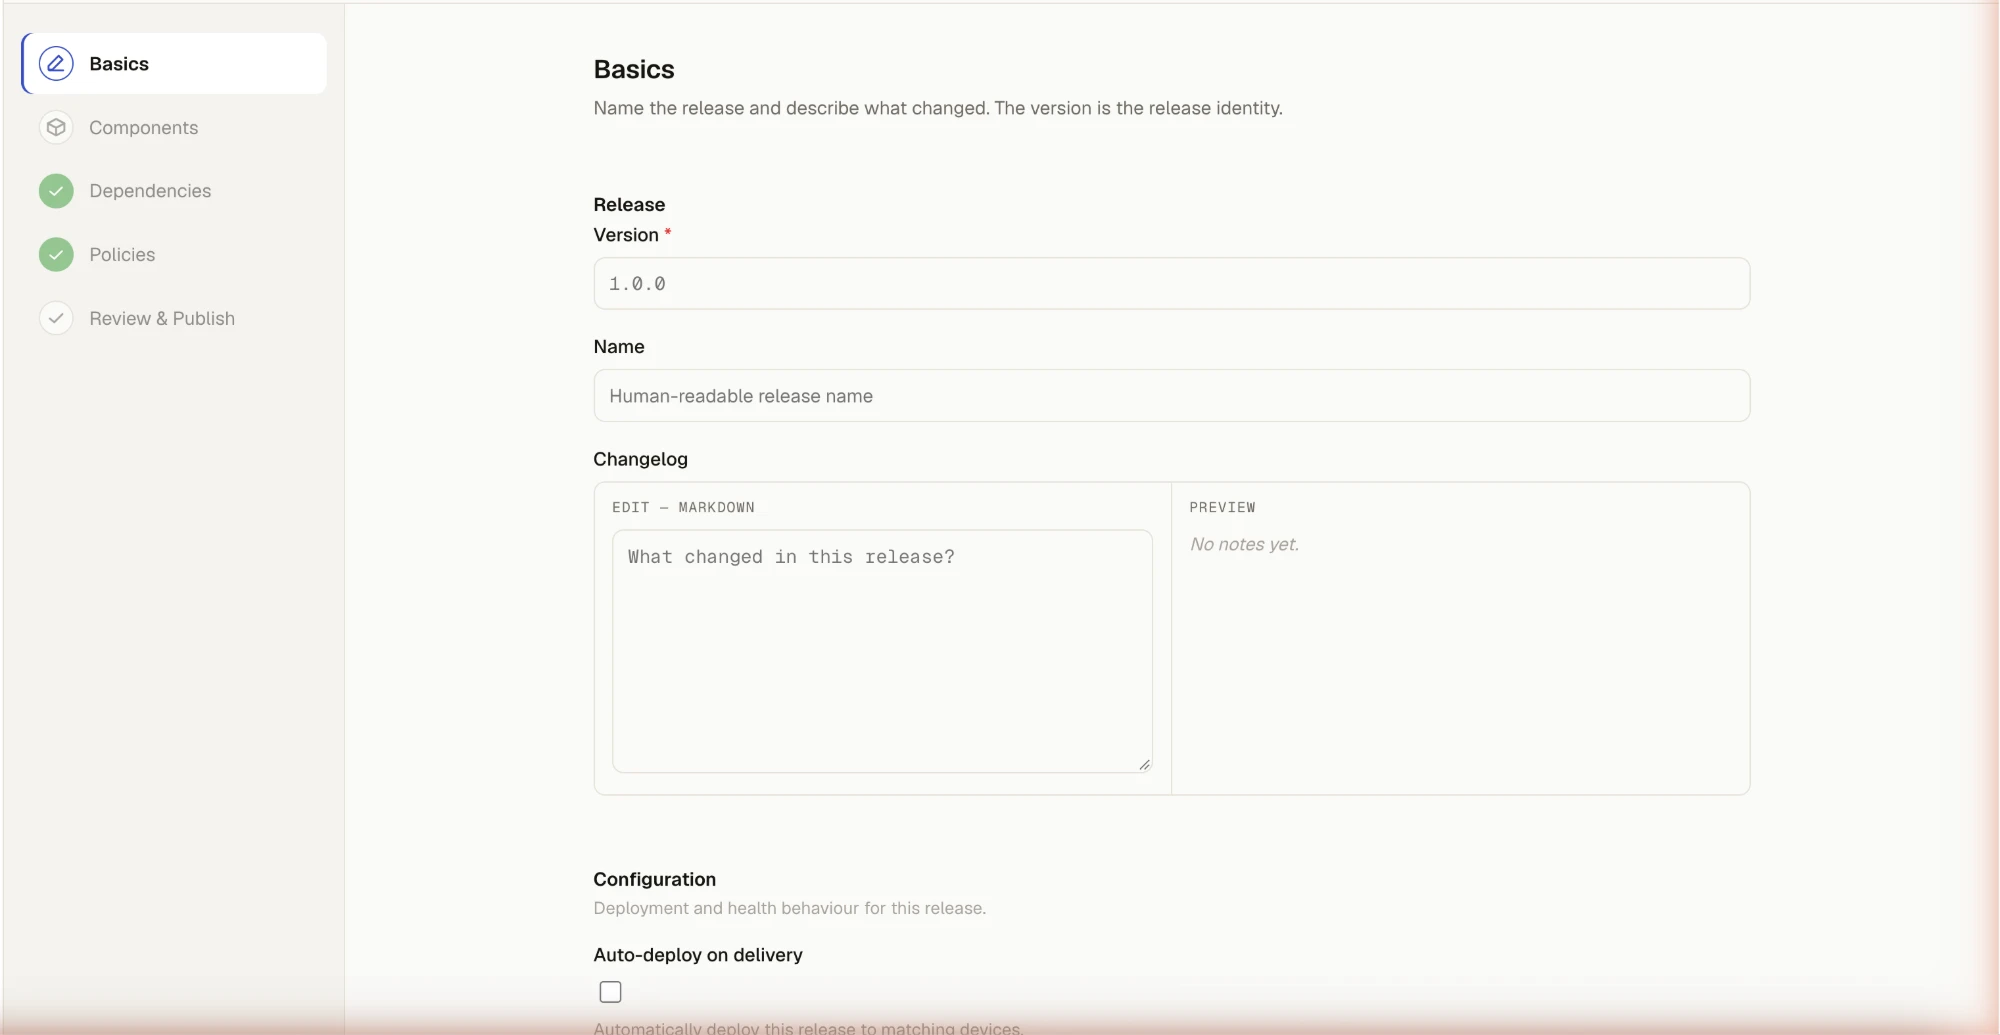
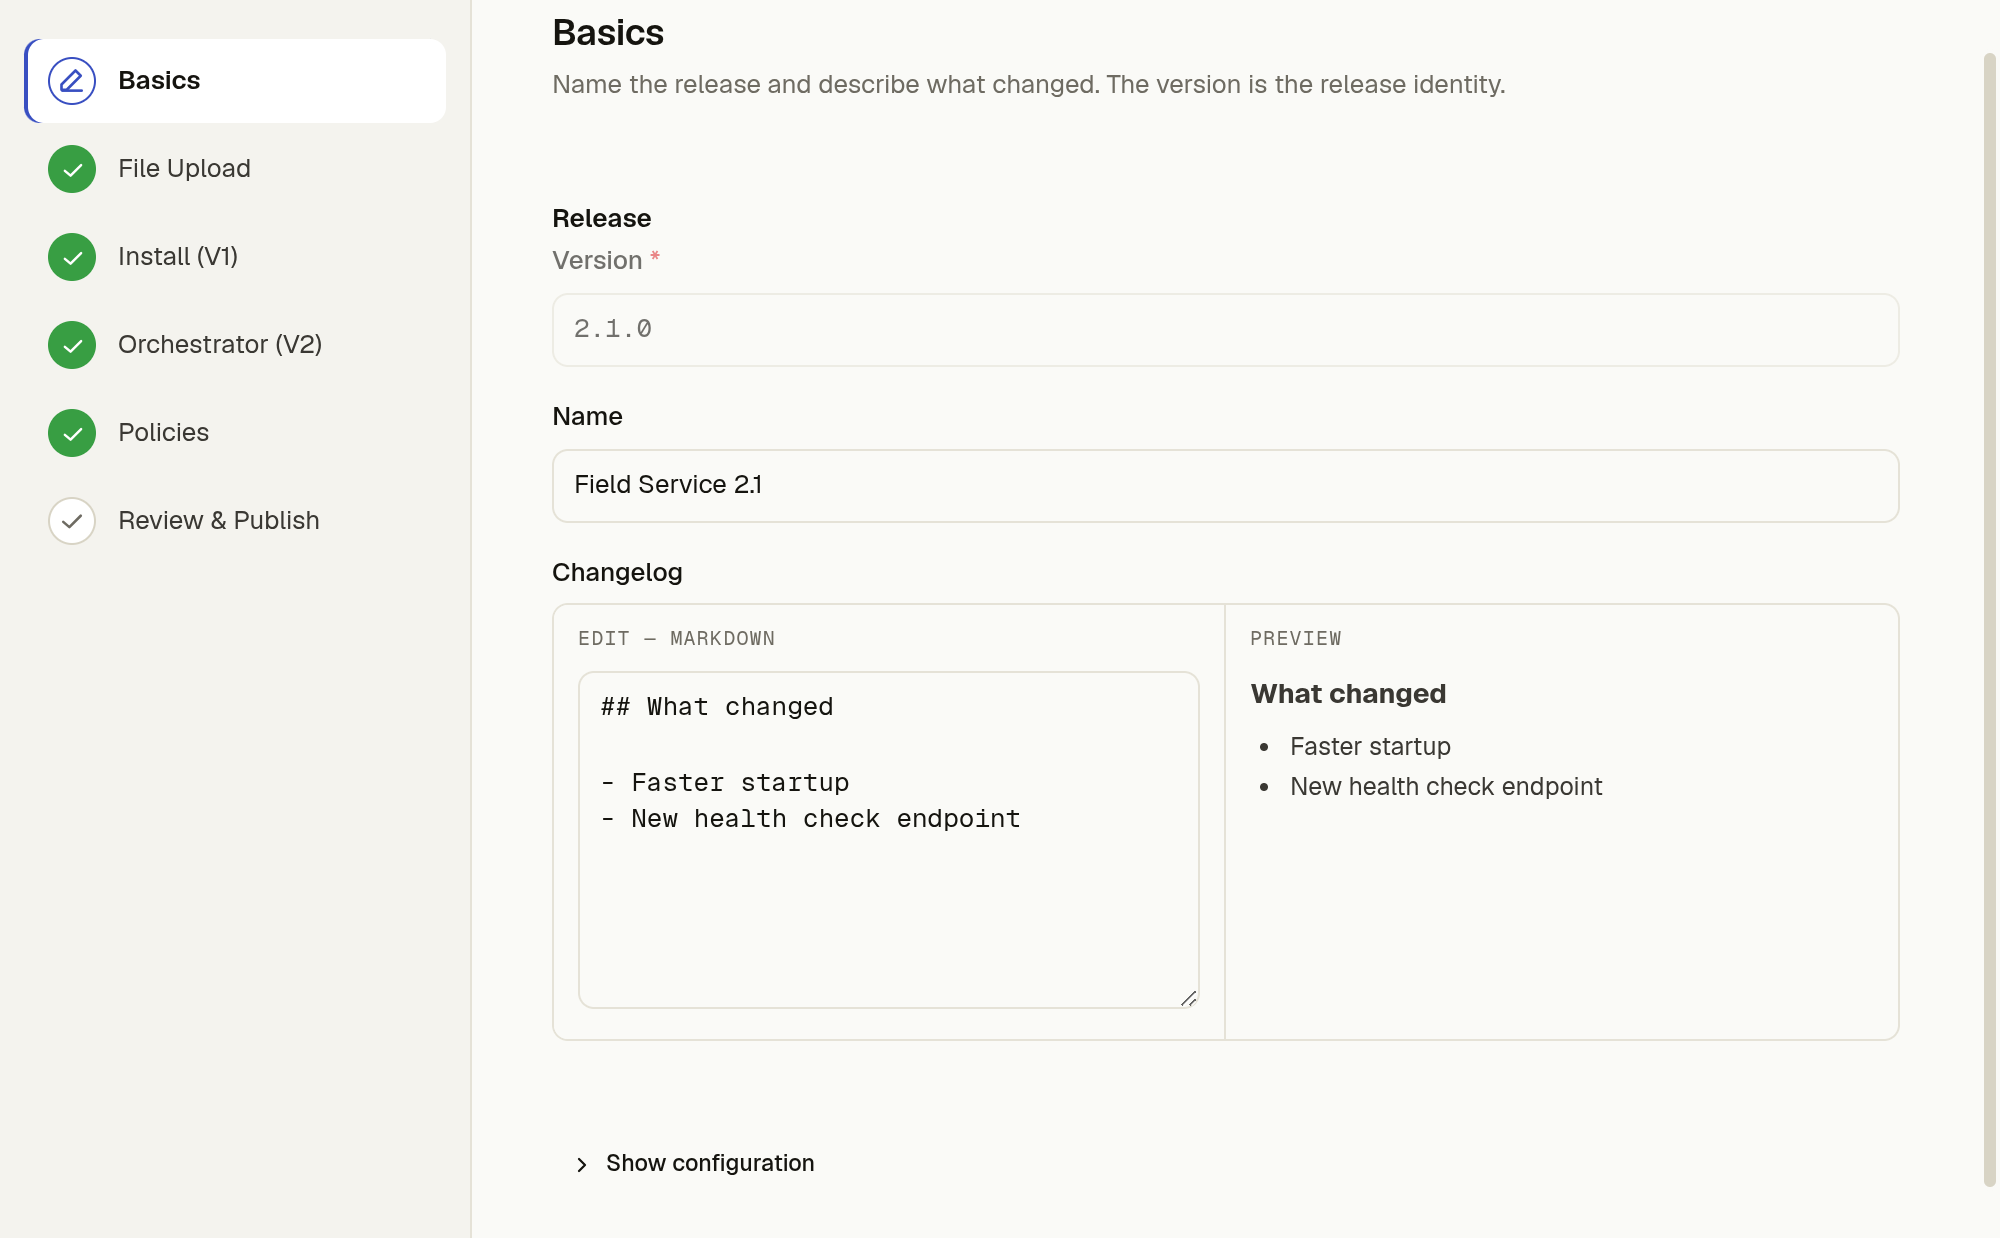
add new images

diff --git a/docs/root/user-docs/developer/release/create-release.md b/docs/root/user-docs/developer/release/create-release.md
@@ -24,58 +24,192 @@ Every existing release has a **Duplicate** button. It opens this same wizard, pr
 that release's artifacts and settings — nothing is written until you give it a new version
 number in Step 1. It's the fastest way to publish a near-identical follow-up release.
 
+## The steps
+
+| Step | Required? | What it's for |
+|---|---|---|
+| **Basics** | Yes | Version, name, release notes, configuration. Creates the draft |
+| **File Upload** | — | The artifacts the release delivers |
+| **Install (V1)** | Optional | The one file a [Deploy V1](../deploy/v1/deploy-v1-overview) agent runs |
+| **Orchestrator (V2)** | Optional | The [Deploy V2](../deploy/v2/deploy-v2-overview) plan, written to `install.yaml` |
+| **Policies** | Optional | Who the release is offered to |
+| **Review & Publish** | — | Check everything, then publish |
+
+A release has **both** install paths: the V1 installer for agents without Deploy V2, and the
+Orchestrator plan for agents with it. Fill in either one or both — publishing doesn't require
+either. Your deployment can hide a step, rename it, or make it required — see
+[Customizing the wizard](#customizing-the-wizard).
+
+**Next** and **Back** skip any step you don't have the role for. Your work is saved each time you
+press **Next**, when you press **Save draft**, and when you leave the wizard, so you can come back
+to a draft later and pick up where you stopped.
+
 ## Step 1 — Basics
 
 Version and name. The draft release is created here before anything else can attach to it.
+The version must be `MAJOR.MINOR.PATCH` (for example `1.2.3`) and can't already exist in the
+project — if a draft with that version exists, the wizard offers to resume it instead.
+Release settings such as auto-deploy are under **Show configuration**.
 
-![Release wizard — Basics step, with Version, Name, Changelog editor, and Auto-deploy on delivery configuration](/img/manual/release/wizard-basics.png)
+![Release wizard — Basics step, with Version 2.1.0, Name, a Markdown changelog with its preview, and Show configuration below](/img/manual/release/wizard-basics.png)
 
-## Step 2 — Components
+## Step 2 — File Upload
 
-Upload artifact files directly, or [attach one from an existing source](./attach-artifact)
-instead. Flag exactly one artifact as **install** — assigning it to a new artifact
-automatically un-flags the previous one. Publish is blocked while any install-bound artifact
-is still uploading.
+Upload the files this release carries — click **Upload file** or drag files onto the page — or
+[attach one from an existing source](./attach-artifact) instead. Every artifact here is
+delivered to the device; which one *installs* is set in the next two steps.
 
-![Release wizard — Components step, empty state with Upload file and Attach from source actions](/img/manual/release/wizard-components.png)
+`install.yaml` can't be uploaded here: the wizard generates it from the
+[Orchestrator](#step-4--orchestrator-v2) plan.
 
-## Step 3 — Dependencies
+![Release wizard — File Upload step, listing an .msi, a .sh and a README as uploaded, with Upload file, Attach from source and a drop area](/img/manual/release/wizard-file-upload.png)
 
-Add other releases (any project, any version) this one depends on — an unordered list in the
-current release stage. In a Deploy V2 release, dependencies are added and listed in the wizard's
-**Orchestrator** step.
+## Step 3 — Install (V1)
 
-Before a dependency is added, the server checks it. It is refused, with the reason shown under
-the picker, when it would:
+For agents that run [Deploy V1](../deploy/v1/deploy-v1-installation): pick the **Installer file**
+and, optionally, the **Install arguments** (for example `/quiet /norestart`). The wizard shows
+how the agent will run the file you picked:
+
+| File | Runs as |
+|---|---|
+| `.msi` | MSI installer |
+| `.rpm` | RPM package |
+| `.sh` | Script (bash) |
+| `.ps1` | Script (PowerShell) |
+| `.bat` | Script (cmd) |
+| anything else | Executable (run directly) |
+
+The extension match is case-sensitive, like the agent's: `Setup.MSI` runs directly, not
+through the MSI installer. If you don't pick a file, the agent falls back to the first `.msi`
+or `.rpm` in the release; if there's none, nothing runs on a V1 install.
+
+Publish is blocked while the chosen installer is still uploading.
+
+![Release wizard — Install (V1) step, with field-service-2.1.0.msi chosen as the installer file, "Installs as MSI installer", and install arguments /quiet /norestart](/img/manual/release/wizard-install-v1.png)
+
+## Step 4 — Orchestrator (V2)
+
+Build the [Deploy V2](../deploy/v2/deploy-v2-overview) plan. The wizard turns it into the
+release's `install.yaml` every time it saves. **Leave the plan empty and the release ships
+without `install.yaml`** — it then installs with V1 only.
+
+### Starting point
+
+When you first open the step, the wizard builds a plan from the files you uploaded:
+
+- every installer (`.msi`, `.rpm`, `.deb`, `.sh`, `.ps1`, `.bat`) gets an **Install** task
+- every package (`.msi`, `.rpm`, `.deb`) also gets an **Uninstall** task
+
+If none of the uploaded files is an installer, the plan starts empty. If you empty the plan
+yourself, it stays empty the next time you open the draft.
+
+![Release wizard — Orchestrator (V2) step, with the Tasks list on the left and the Install section holding a FirstApp 2.4.0 dependency task (Fleet rule) and the two uploaded installers](/img/manual/release/wizard-orchestrator.png)
+
+### Tasks
+
+The **Tasks** list on the left holds every task you've written. **Add task** opens the task
+editor; pick one or more **Actions**, and the wizard places a copy of the task in each of those
+action's sections. The task stays in the list, so you can drag it into another section for
+another copy.
+
+- Editing a task **in the list** updates every copy placed from it
+- Editing a **placed copy** changes only that copy — it stops following the list
+- Deleting a task from the list doesn't remove the copies already placed
+
+On a placed task you can add **Subtasks** (for example a check that runs after it), set a
+**Weight** (its share of the progress bar), and set a **Rule** (the devices it runs on).
+
+### Actions
+
+Each section of the plan is an [action](../deploy/v2/deploy-v2-lifecycle-actions) — the
+sections in `install.yaml`. By default you see **Install**, **Uninstall**, **Health**,
+**Configure**, **Activate**, and **Deactivate**.
+
+- **Add action** shows a hidden action again, or adds a **Custom action…** with your own name.
+  A custom action runs only when called by name — from the agent, or from another release's task
+- The arrows move a section up or down; `install.yaml` follows the section order
+- An empty section can be removed; a section with tasks can't, until you move or remove them
+- **Re-run each time** controls whether the action starts fresh every time it runs. It's off
+  by default for Install and Uninstall (they run once, and a failed run resumes where it
+  stopped) and on for every other action
+
+A plan with any tasks needs at least one task in **Install**. Until it has one, **Next** is
+blocked and you can't jump past this step in the rail.
+
+### Dependencies
+
+Under **Add dependency…**, search for a project — you can type any part of its name — then
+pick a version. Only versions that have a Deploy V2 plan are offered. Before adding it, the
+server checks it. It is refused, with the reason shown under the picker, when it would:
 
 - create a **dependency cycle** — for example this release → B → this release. The cycle is shown
   as a chain of release chips, each linking to that release
 - point to **this release itself**, or to a release that doesn't exist
 
-Removing a dependency also removes every task that deploys it, and is saved when you move to the
-next step. It doesn't affect the dependency's own release.
+Adding a dependency adds one task per action the dependency has. Its **Install** task goes to
+the top of your Install section; the others go to the end of their sections. Each one is a
+[`FleetDeploy/v2`](../deploy/v2/deploy-v2-orchestrator#fleet-deploy-across-managed-devices) task
+with a **Fleet rule**, pre-filled from the dependency's own rule and the device types it is
+offered to. A dependency task without a fleet rule blocks publishing.
 
-![Release wizard — Dependencies step, with GetApp-Upload@1.4.65-main added and a project/version picker to add more](/img/manual/release/wizard-dependencies.png)
+The **Dependencies** list shows what's added. Removing a dependency also removes every task
+that deploys it, and is saved when you move to the next step. It doesn't affect the
+dependency's own release.
 
-## Step 4 — Policies
+![Release wizard — Orchestrator (V2) step scrolled down: the Tasks list scrolled to the Dependencies list with FirstApp 2.4.0, the Uninstall section with the .msi and the dependency's uninstall task, and the Health section with an API health check and Re-run each time on](/img/manual/release/wizard-orchestrator-actions.png)
+
+### install.yaml
+
+**Show YAML** opens the generated `install.yaml` beside the plan. The **⋯** menu can
+**Download YAML**, **Edit YAML** (edit the text directly, then **Apply**), or **Upload YAML**
+(replace the plan with a file — you review it before applying). You can also drop an
+`install.yaml` file onto the step. A task that carries fields the task editor doesn't show is
+marked **Edited in YAML** — edit it with **Edit YAML** so those fields are kept.
+
+Problems in the plan are listed under it, and block publishing until fixed. When there are
+none, you see **Manifest is valid.**
+
+If a draft already has an `install.yaml` that can't be read, the step says so and publishing is
+blocked. **Retry** reads it again; **Replace it** overwrites it with the plan you write here.
+
+## Step 5 — Policies
 
 Two independent, role-gated ways to narrow who this release reaches — leaving both unset
 delivers it to everyone:
 
 - **Device type offering** — the same [offering policy](../../admin/create-and-manage-type/manage-device-type)
-  editor used from Types, scoped to this release
+  editor used from Types, scoped to this release. Type in the device type picker to filter it
 - **Release policy** — associates a [Policy](../../admin/create-and-manage-rule/policy) rule
   with this specific release
 
 Active [restrictions](../../admin/create-and-manage-rule/restrictions) are shown here
 read-only — they still block matching devices regardless of what you set in this step.
 
-![Release wizard — Policies step, with an unset Device type filter and the General policy attached to "Allow All Devices"](/img/manual/release/wizard-policies.png)
+If you have none of the offering or policy roles, **Next** skips this step and the release is
+offered to everyone.
 
-## Step 5 — Review & Publish
+![Release wizard — Policies step, with no device type narrowed, an Add a device type picker, and the General policy "Allow All Devices" attached](/img/manual/release/wizard-policies.png)
+
+## Step 6 — Review & Publish
 
 A read-only summary of every step, each with a quick **Edit** link back to it. **Publish**
 (gated on `publish-release`) flips the release's status to `released`.
+
+| Row | Shows |
+|---|---|
+| **Basics** | Version and name |
+| **File Upload** | Number of artifacts |
+| **Install (V1)** | The installer and how it runs — or the file the agent falls back to |
+| **Policies** | *Narrowed*, or *Delivers to everyone* |
+| **Orchestrator (V2)** | The plan's tasks, with a preview and **Download** of `install.yaml` — or *No Deploy-V2 plan — installs with V1 only* |
+
+![Release wizard — Review & Publish step, with Basics, File Upload, Install (V1), Policies and Orchestrator (V2) rows, each with an Edit link](/img/manual/release/wizard-review.png)
+
+Publishing is blocked while:
+
+- the Orchestrator plan has problems (they're listed here too)
+- the V1 installer is still uploading
+- a step your deployment made required isn't complete
 
 This step also shows the server's **publish checks** for the saved draft. Publishing is refused
 while any of them fails:
@@ -93,7 +227,37 @@ An artifact used by `install.yaml` that isn't signed shows as a warning only.
 The same checks run when a release in review is promoted to `released` automatically (for
 example once its regulations are compliant) — if they fail, it stays in review.
 
-![Release wizard — Review & Publish step, summarizing Basics, Components, Dependencies, and Policies each with an Edit link](/img/manual/release/wizard-review.png)
+## Customizing the wizard
+
+An administrator can tailor the wizard per deployment, without changing the application. Out of
+the box you get the wizard described above. There are two optional files in
+`public/config/` of the GetApp Platform deployment.
+
+**`release-wizard.steps.json`** changes the steps, matched by key (`basics`, `file-upload`,
+`install-v1`, `orchestrator`, `policies`, `review`). Each entry can set `title`, `order`,
+`hidden`, `requiredRoles`, and `required`. A required step blocks **Next**, the steps after it,
+and **Publish** until it's complete. For example, to hide the V1 installer step where every
+agent runs Deploy V2, and to require at least one uploaded file:
+
+```json
+{
+  "version": 1,
+  "steps": [
+    { "key": "install-v1", "hidden": true },
+    { "key": "file-upload", "required": true }
+  ]
+}
+```
+
+**`release-wizard.deploy-v2.json`** changes the Orchestrator:
+
+| Key | What it does |
+|---|---|
+| `orchestratorRequired` | `true` makes the Deploy V2 plan mandatory: **Next** on the Orchestrator and **Publish** stay blocked until the plan has an Install task. Default `false` |
+| `actions` | The actions offered, in order. Each has a `value` (the `install.yaml` key, built-in or custom), a `label`, and optionally `default` (`false` = only under **Add action**), `live`, and `tip` (a hint in the task editor) |
+| `sources` | The task sources offered (File, API, …) |
+
+A missing or invalid file falls back to the defaults, so the wizard always opens.
 
 ## SBOM
 

diff --git a/docs/root/user-docs/developer/release/overview.md b/docs/root/user-docs/developer/release/overview.md
@@ -16,9 +16,10 @@ page in this section.
 ## Artifact
 
 One or more files attached to the release — an installer, a binary, a docker image, an rpm/deb
-package, a data file. Exactly one can be flagged as the **install** artifact: the thing that
-actually runs. See [Attach an Artifact](./attach-artifact) for pulling one in from an existing
-source instead of uploading fresh bytes.
+package, a data file. For [Deploy V1](../deploy/v1/deploy-v1-overview) agents, one of them is
+chosen as the **installer**: the thing that actually runs. See
+[Attach an Artifact](./attach-artifact) for pulling one in from an existing source instead of
+uploading fresh bytes.
 
 ## Manifest
 
@@ -32,10 +33,10 @@ an ordered list of **tasks**. Each task carries:
 - Fields that can reference the release's own **data and metadata** at run time instead of a
   fixed value (e.g. a timeout sourced from `Release.metadata.timeoutInstallation`)
 
-`install.yaml` is a reserved name — the wizard blocks uploading a file with it directly. The
-concepts above (tasks, actions, orchestrated dependents, metadata templating) are real and
-already how Deploy V2 works; the manifest is composed server-side, not hand-edited through the
-dashboard today.
+`install.yaml` is a reserved name — the wizard blocks uploading a file with it directly. You
+build the plan in the wizard's [Orchestrator (V2)](./create-release#step-4--orchestrator-v2)
+step, and the wizard writes `install.yaml` from it (you can also edit the YAML there). A release
+with an empty plan has no `install.yaml` and installs with Deploy V1 only.
 
 ## Lifecycle
 

diff --git a/docs/root/user-docs/developer/project/new-project.md b/docs/root/user-docs/developer/project/new-project.md
@@ -24,7 +24,9 @@ New Project is a wizard with a step rail down the left. Only **General** is requ
 them entirely. Every step has **Next**; on the last step (**GitOps**) it becomes
 **Create Project**. Click a step in the rail to jump straight to it, so you can go from General
 to the last step and create the project without visiting the optional ones. You can revisit
-everything later from the project's [Settings](./project-detail#settings).
+everything later from the project's [Settings](./project-detail#settings). A step you don't have
+the role for (for example **Members**, which needs `update-project`) is greyed out, and **Next**
+and **Back** skip it.
 
 ![New Project wizard — a left step rail with General (required) plus Members, Docs, and GitOps (optional), showing the General step: a Project name field with the auto-assigned Project ID line below it, Software Type chips Application (selected) and Infrastructure, a Categories picker, Summary (0/20), Tags, and Description (0/500), with Cancel, Back, and Next in the footer](/img/manual/project/new-project-form.png)
 

diff --git a/docs/root/user-docs/developer/release/attach-artifact.md b/docs/root/user-docs/developer/release/attach-artifact.md
@@ -14,7 +14,7 @@ bytes.
 
 ## Where it lives
 
-[Create a Release](./create-release) → Components step → **Attach from source**.
+[Create a Release](./create-release) → File Upload step → **Attach from source**.
 
 ## Choose a source
 
@@ -42,9 +42,10 @@ all to the release.
 
 ![Attach from source — Review step, showing the one selected file ready to Attach](/img/manual/release/attach-review.png)
 
-:::note Not install-bound by default
-Attached artifacts arrive without the install flag — go back to the Components list afterward
-to mark whichever one is the actual installer.
+:::note Not an installer by itself
+An attached artifact is only delivered. To make it run, pick it in the
+[Install (V1)](./create-release#step-3--install-v1) step, or use it in a task in the
+[Orchestrator (V2)](./create-release#step-4--orchestrator-v2) step.
 :::
 
 ## See also

diff --git a/docs/root/user-docs/developer/deploy/v1/installation.md b/docs/root/user-docs/developer/deploy/v1/installation.md
@@ -12,8 +12,8 @@ explicitly, so the agent works it out from what's there.
 
 ## Picking the artifact
 
-1. **First pass** — look for an artifact flagged `is_executable` (the same **install** flag you
-   set in [Components](../../release/create-release#step-2--components) when authoring the
+1. **First pass** — look for an artifact flagged `is_executable` (the **Installer file** you
+   pick in [Install (V1)](../../release/create-release#step-3--install-v1) when authoring the
    release). Route it by file extension: `.msi` → the MSI installer, `.rpm` → the RPM
    installer, anything else → run it as a script
 2. **Second pass** — if nothing was flagged, fall back to the same extension-based routing over

diff --git a/docs/root/user-docs/developer/deploy/v2/overview.md b/docs/root/user-docs/developer/deploy/v2/overview.md
@@ -17,7 +17,9 @@ validates it end-to-end, and executes the tasks one by one.
 :::info When does it activate?
 Deploy V2 turns on **automatically** the moment a delivered release contains an `install.yaml`
 in its artifacts directory. Releases without one keep using the classic
-([V1](../v1/deploy-v1-overview)) deploy path, unchanged.
+([V1](../v1/deploy-v1-overview)) deploy path, unchanged. In the release wizard, the
+[Orchestrator (V2)](../../release/create-release#step-4--orchestrator-v2) step writes
+`install.yaml` for you; leaving its plan empty ships a V1-only release.
 :::
 
 ## What it is
